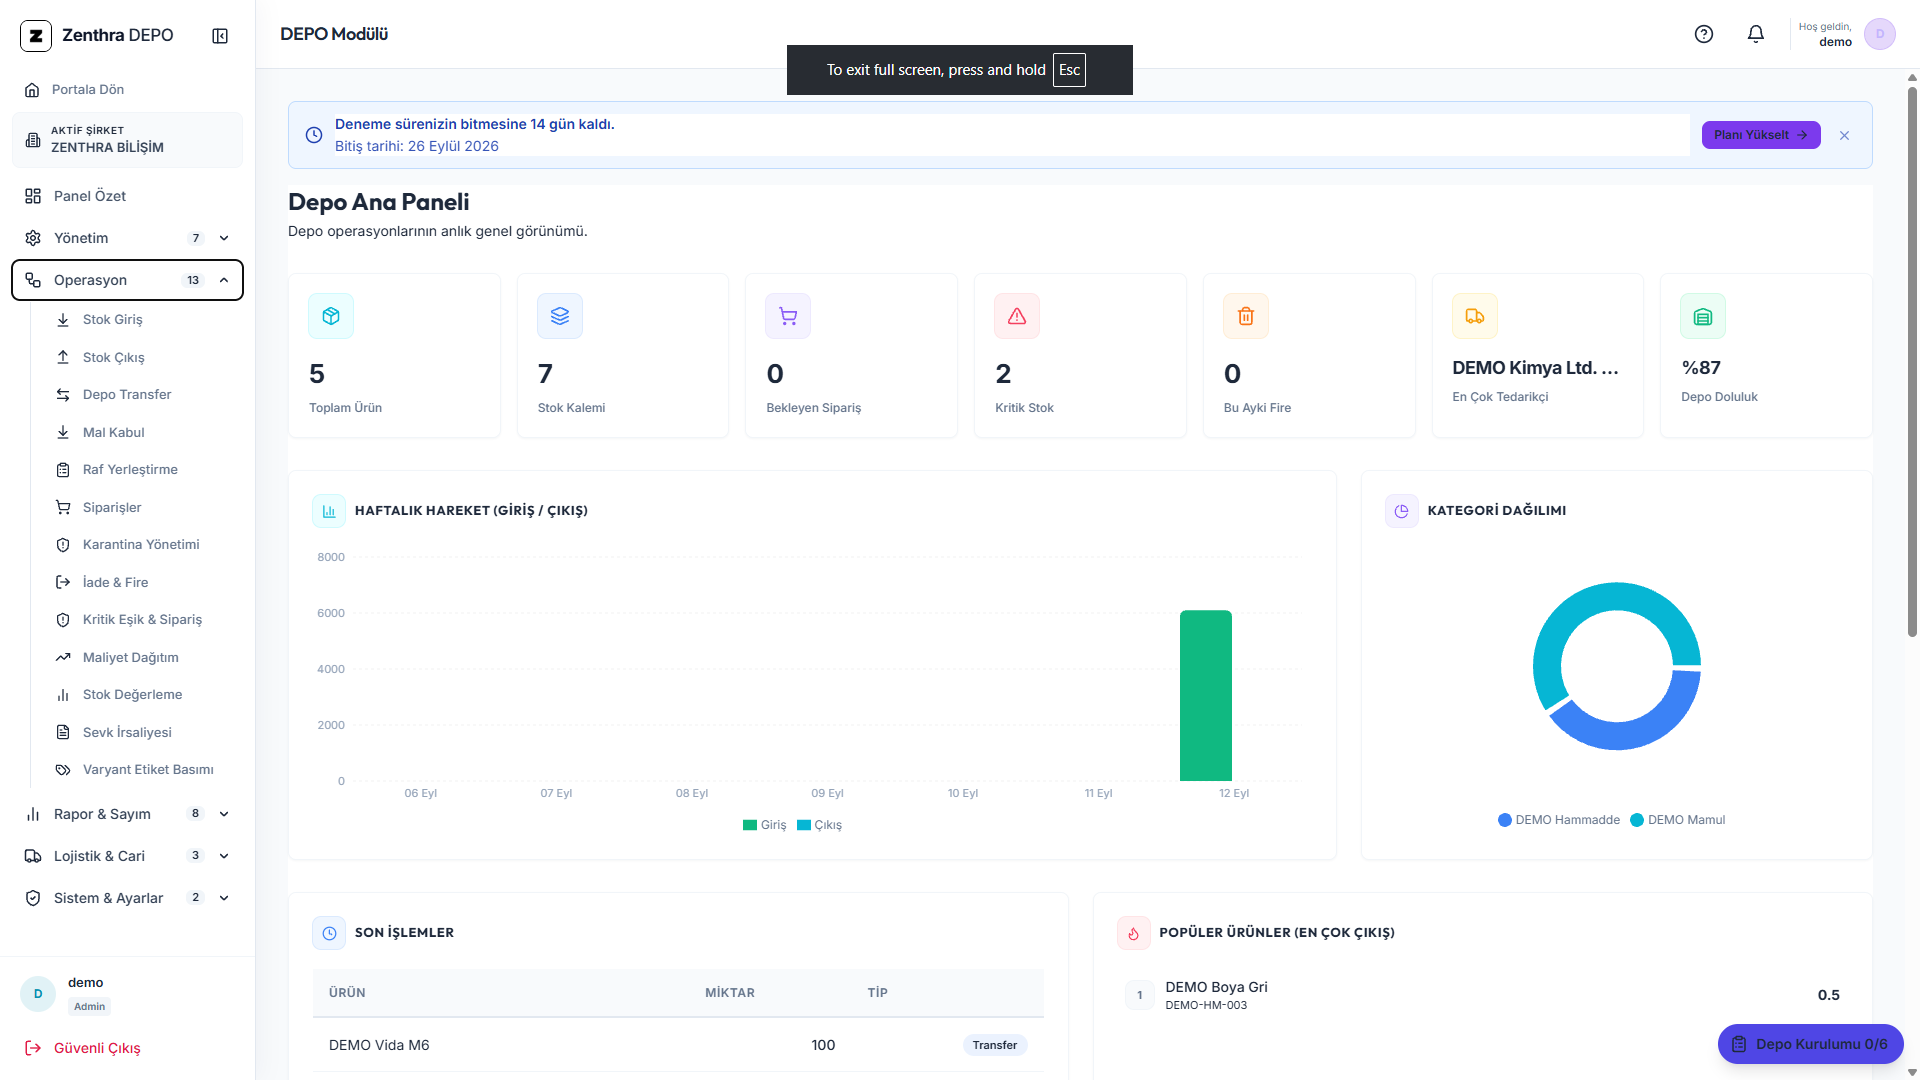
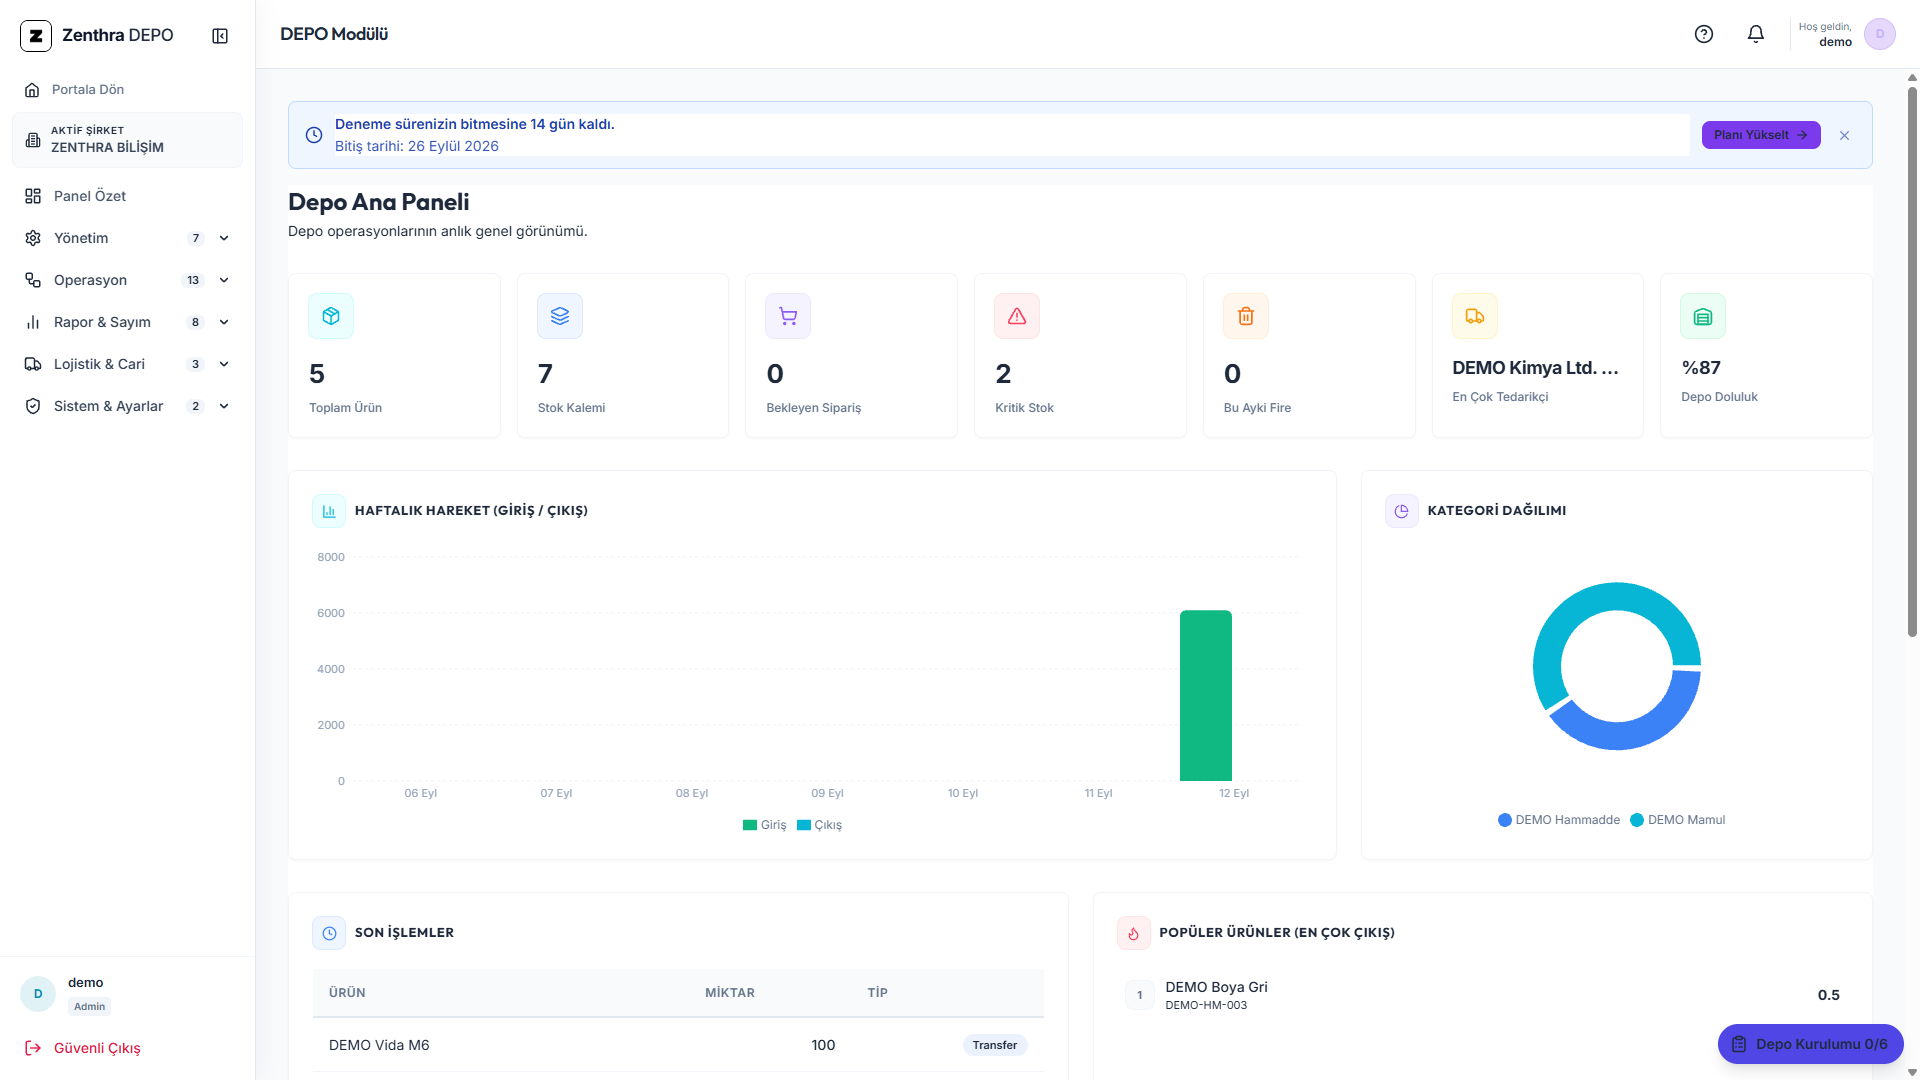
feat: update Depo Live hero screenshot to Screenshot (1387).png

diff --git a/app/projects/depo-live/page.js b/app/projects/depo-live/page.js
@@ -322,7 +322,7 @@ export default function DepoLiveProjectPage() {
                 borderTop: '1px solid rgba(255, 255, 255, 0.08)'
               }}>
                 <img
-                  src="/depo-live.png"
+                  src="/depo-live.png?v=2"
                   alt="Zenthra Bilişim Depo Live Sistem Ekranı"
                   style={{
                     width: '100%',
